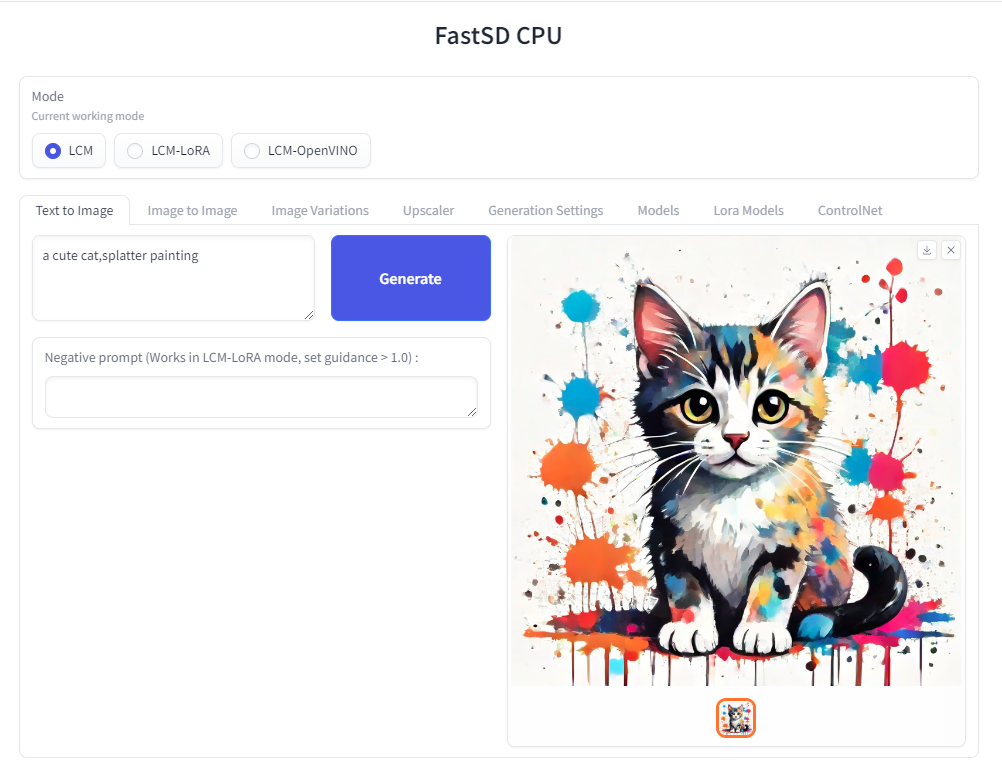
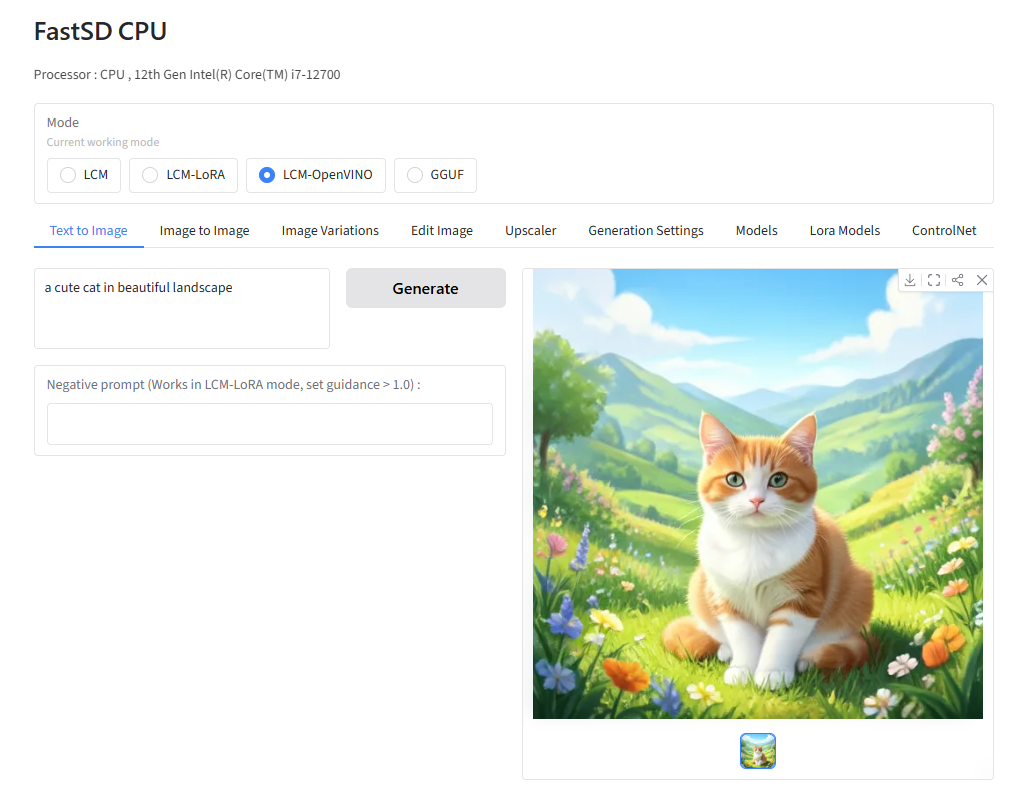
Negative prompt checks,web ui updates

Changed region(s): [[0.0309, 0.0, 0.9591, 0.965], [0.1547, 0.0623, 0.2784, 0.1245], [0.4331, 0.0311, 0.5569, 0.0623]]

diff --git a/src/frontend/webui/ui.py b/src/frontend/webui/ui.py
@@ -3,7 +3,7 @@ from datetime import datetime
 import gradio as gr
 
 from backend.device import get_device_name
-from constants import APP_VERSION
+from constants import APP_VERSION, DEVICE
 from frontend.webui.controlnet_ui import get_controlnet_ui
 from frontend.webui.edit_image_ui import get_edit_image_ui
 from frontend.webui.generation_settings_ui import get_generation_settings_ui
@@ -16,6 +16,21 @@ from frontend.webui.upscaler_ui import get_upscaler_ui
 from state import get_settings
 
 app_settings = get_settings()
+
+css = """
+#intro{
+    max-width: 100%;
+    text-align: left;
+    margin: 0 auto; 
+}
+footer {visibility: hidden}
+#device_info {
+    color: var(--body-text-color-subdued);
+    font-size: 0.85rem;
+    font-weight: 500;
+    opacity: 0.85; 
+}
+"""
 
 
 def _get_footer_message() -> str:
@@ -53,12 +68,15 @@ def get_web_ui() -> gr.Blocks:
     with gr.Blocks(
         title="FastSD CPU",
         theme=theme,
-        css="footer {visibility: hidden}",
+        css=css,
     ) as fastsd_web_ui:
-        gr.HTML("<center><H1>FastSD CPU</H1></center>")
         gr.Markdown(
-            f"**Processor :  {get_device_name()}**",
-            elem_id="processor",
+            f"# FastSD CPU",
+            elem_id="intro",
+        )
+        gr.Markdown(
+            f"""Processor : {DEVICE.upper()} , {get_device_name()}""",
+            elem_id="device_info",
         )
         current_mode = "LCM"
         if app_settings.settings.lcm_diffusion_setting.use_openvino:

diff --git a/src/backend/lcm_text_to_image.py b/src/backend/lcm_text_to_image.py
@@ -184,6 +184,13 @@ class LCMTextToImage:
             lcm_diffusion_setting.use_lcm_lora,
         ]
         self._validate_mode(modes)
+
+        if self._is_flux_klein_model() and lcm_diffusion_setting.use_openvino:
+            if lcm_diffusion_setting.negative_prompt:
+                raise ValueError(
+                    "Negative prompt is not supported for Flux2 Klein model in OpenVINO mode."
+                )
+
         if lcm_diffusion_setting.diffusion_task == DiffusionTask.edit_image.value:
             if (
                 not lcm_diffusion_setting.use_openvino

diff --git a/Readme.md b/Readme.md
@@ -18,7 +18,7 @@ The following interfaces are available :
 
 ## 📰 News
 
-- **2026-06-21** - FLUX.2-klein-4B support(OpenVINO), image editing support, photo restoration
+- **2026-06-21** - Added FLUX.2-klein-4B support(OpenVINO), image editing support, photo restoration, colorization (2 to 4 steps)
 - **2026-05-01** - Docker support, HF demo 
 - **2025-12-22** - FastSD engine integrated into [Intel's OpenVINO™ AI Plugins for GIMP](https://github.com/intel/openvino-ai-plugins-gimp)
 - **2025-05-17** - Added SANA Sprint(OpenVINO) support,Tiny AutoEncoder 1.3(Mocha Croissant) support
@@ -150,6 +150,8 @@ If we enable Tiny decoder(TAESD) we can save some memory(2GB approx) for example
 - Add [TAEF1 (Tiny autoencoder for FLUX.1) openvino](https://huggingface.co/rupeshs/taef1-openvino) support
 - Add Image to Image and Image Variations Qt GUI support,thanks [monstruosoft](https://github.com/monstruosoft)
 - Add single file SDXL safetensor file support,thanks [monstruosoft](https://github.com/monstruosoft)
+- Add FLUX.2-klein-4B OpenVINO support
+- Add image editing support
 
 
 <a id="fast-inference-benchmarks"></a>